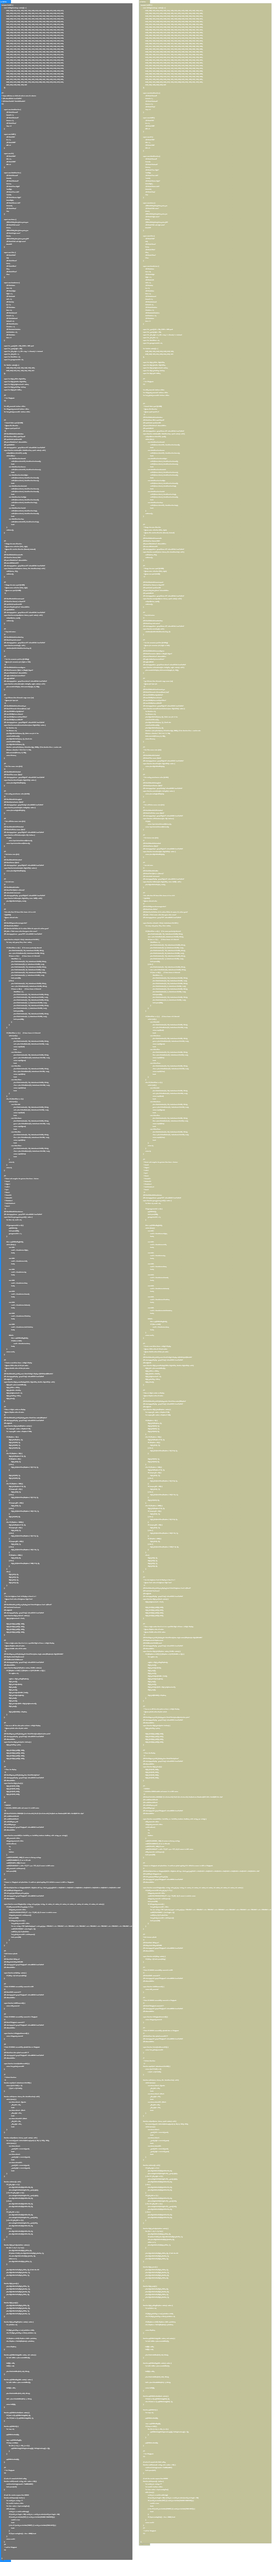
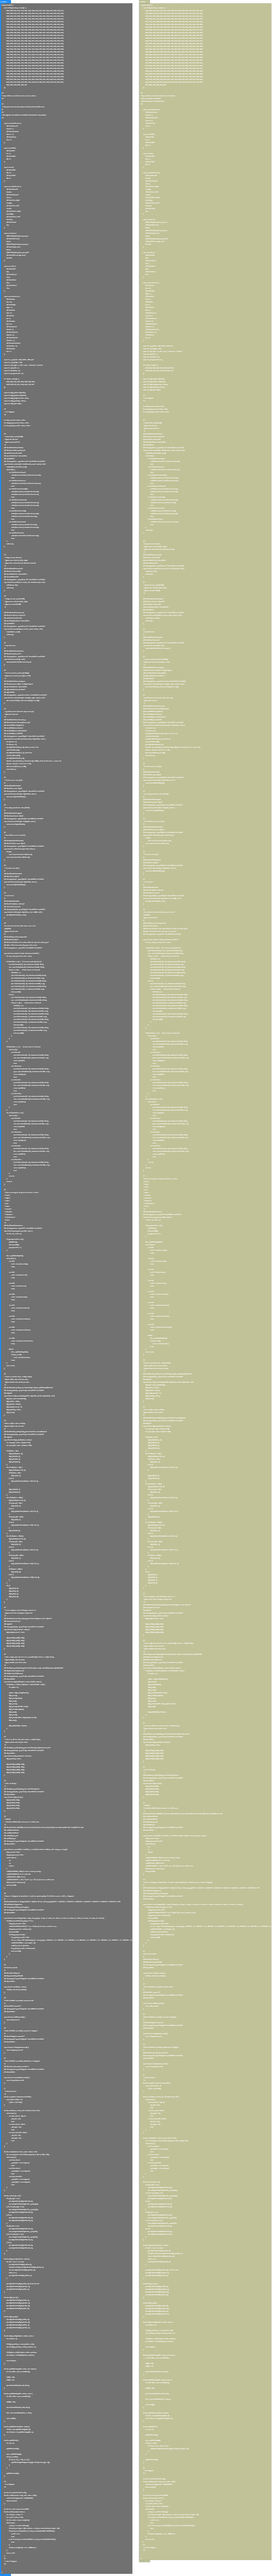
Update main.blocks, main.ts

Changed region(s): [[0.0, 0.0, 0.2395, 0.9955], [0.509, 0.0, 0.7186, 0.9955]]

diff --git a/main.ts b/main.ts
@@ -1,7 +1,7 @@
 /**
  * Library for Grove micro:bit project board https://www.hackids.com.br
 */
-//% weight=10 color=#FF1344 icon="\uf135" block="Hackbit" advanced=false
+//% weight=10 color=#FF1344 icon="\uf135"
 
 namespace hackbit {
     const initRegisterArray: number[] = [
@@ -43,7 +43,7 @@ namespace hackbit {
  * Library for Grove micro:bit project board https://www.hackids.com.br
 */
 /** 
-* //% weight=10 color=#FF1344 icon="\uf135" block="Hackbit" advanced=false
+* //% weight=10 color=#FF1344 icon="\uf135"
 **/
 
     export enum MotorDirection {
